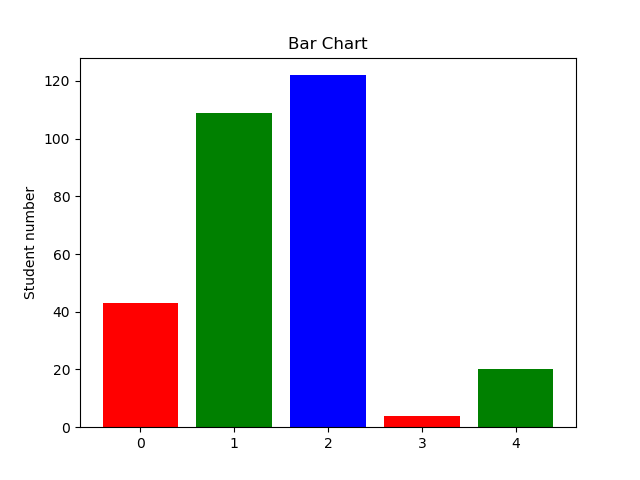
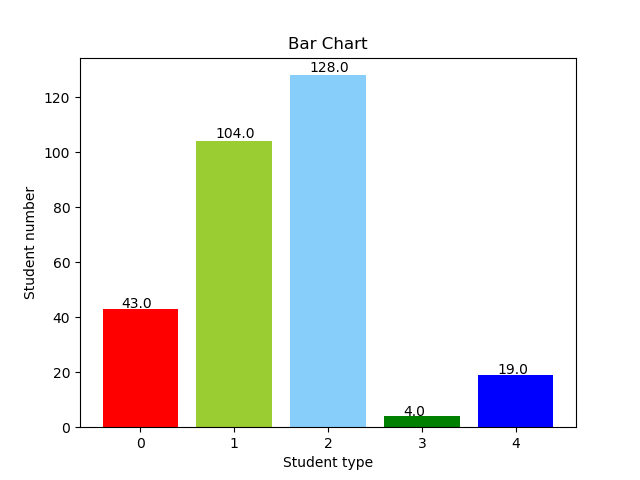
修改了图

diff --git a/our_site/src/teacher_client/views.py b/our_site/src/teacher_client/views.py
@@ -26,6 +26,10 @@ def zhexian_fig(request):
     from background_program.y_Modules.ClassFailingWarning.ClassFailingWarning import ClassFailingWarning
     t = ClassFailingWarning()
     infos = t.doit()
+    def autolabel(rects):
+        for rect in rects:
+            height = rect.get_height()
+            plt.text(rect.get_x()+rect.get_width()/4., 1.01*height, "%s" % float(height))
     num = np.zeros(5)
     score = [x[1] for x in infos]
     for i in range(5):
@@ -33,7 +37,10 @@ def zhexian_fig(request):
     fig = plt.figure('By SmartCampus Team')
     ax = fig.add_subplot(111)
     ax.set_title('Bar Chart')
-    plt.bar(range(len(num)), num, color='rgb') 
+    colors = ['red','yellowgreen','lightskyblue','g','b']
+    rec = plt.bar(range(len(num)), num, color=colors) 
+    autolabel(rec)
+    ax.set_xlabel('Student type')
     ax.set_ylabel('Student number')
     save_path = sys.path[0]+'/teacher_client/static/teacher_client/images/zhexian.png'
     plt.savefig(save_path)
@@ -48,14 +55,25 @@ def bingzhuang_fig(request):
     t = ClassFailingWarning()
     infos = t.doit()
     num = np.zeros(5)
+    colors = ['red','yellowgreen','lightskyblue','g','b']
+    labels = [u'0',u'1',u'2',u'3',u'4']
     score = [x[1] for x in infos]
     for i in range(5):
         num[i] = score.count(i)
     fig = plt.figure('By SmartCampus Team')
     ax = fig.add_subplot(111)
     ax.set_title('Pie Chart')
-    plt.pie(num,labels = range(len(num)),colors='rgb') 
+    patches,l_text,p_text = plt.pie(num,labels = labels,colors=colors,labeldistance = 1.1,autopct = '%3.1f%%',shadow = False,startangle = 90,pctdistance = 0.6) 
     save_path = sys.path[0]+'/teacher_client/static/teacher_client/images/bingzhuang.png'
+    for t in l_text:
+        t.set_size=(30)
+    for t in p_text:
+        t.set_size=(20)
+# 设置x，y轴刻度一致，这样饼图才能是圆的
+    plt.axis('equal')
+    plt.legend()
+    plt.savefig(save_path)
+#     plt.show()
     plt.close()
     context = {
         'infos': infos,
